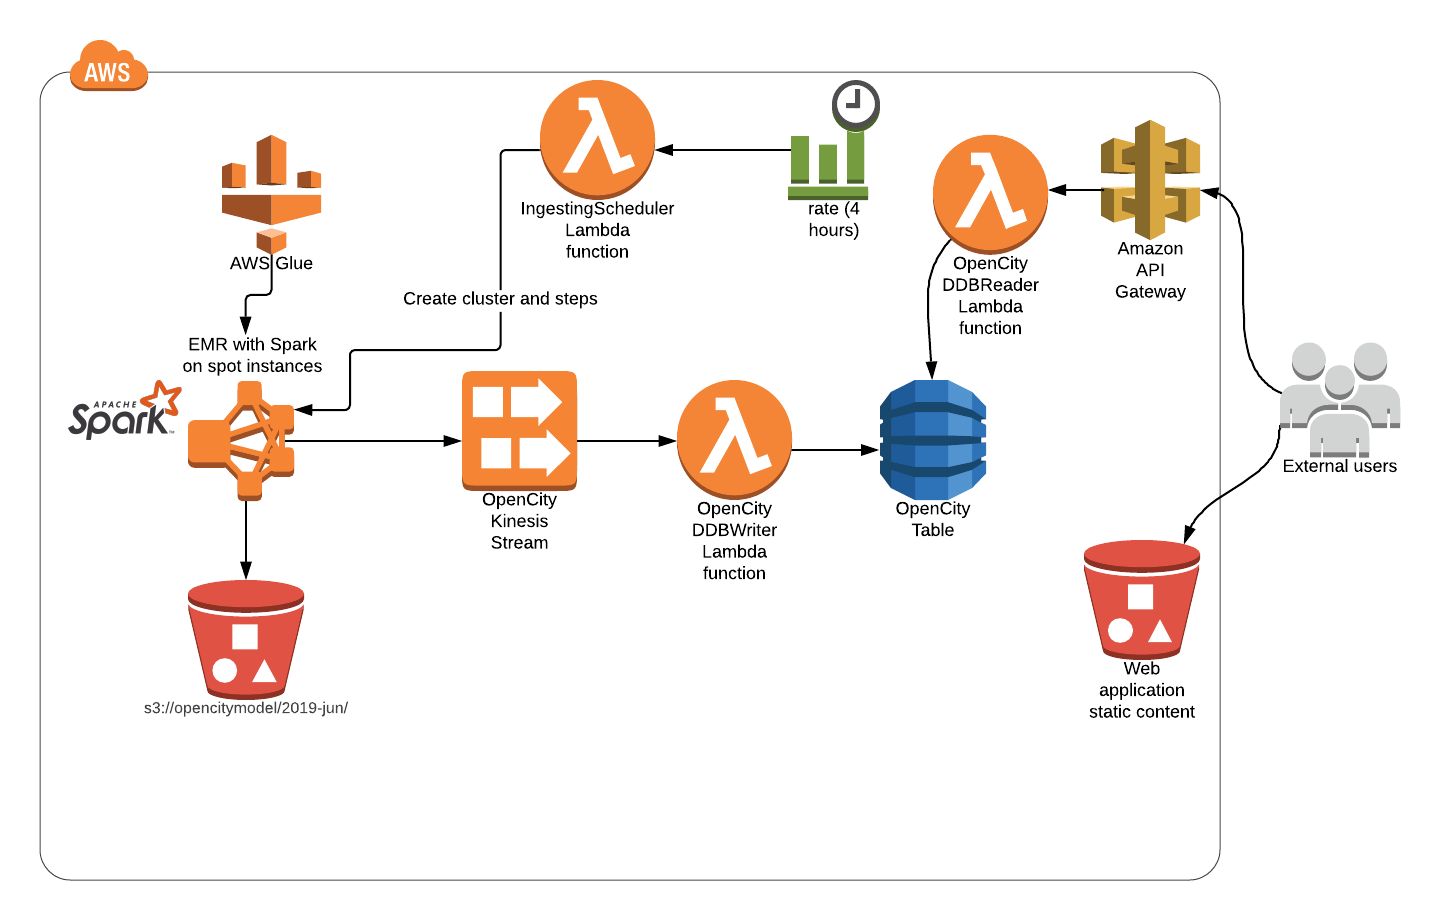
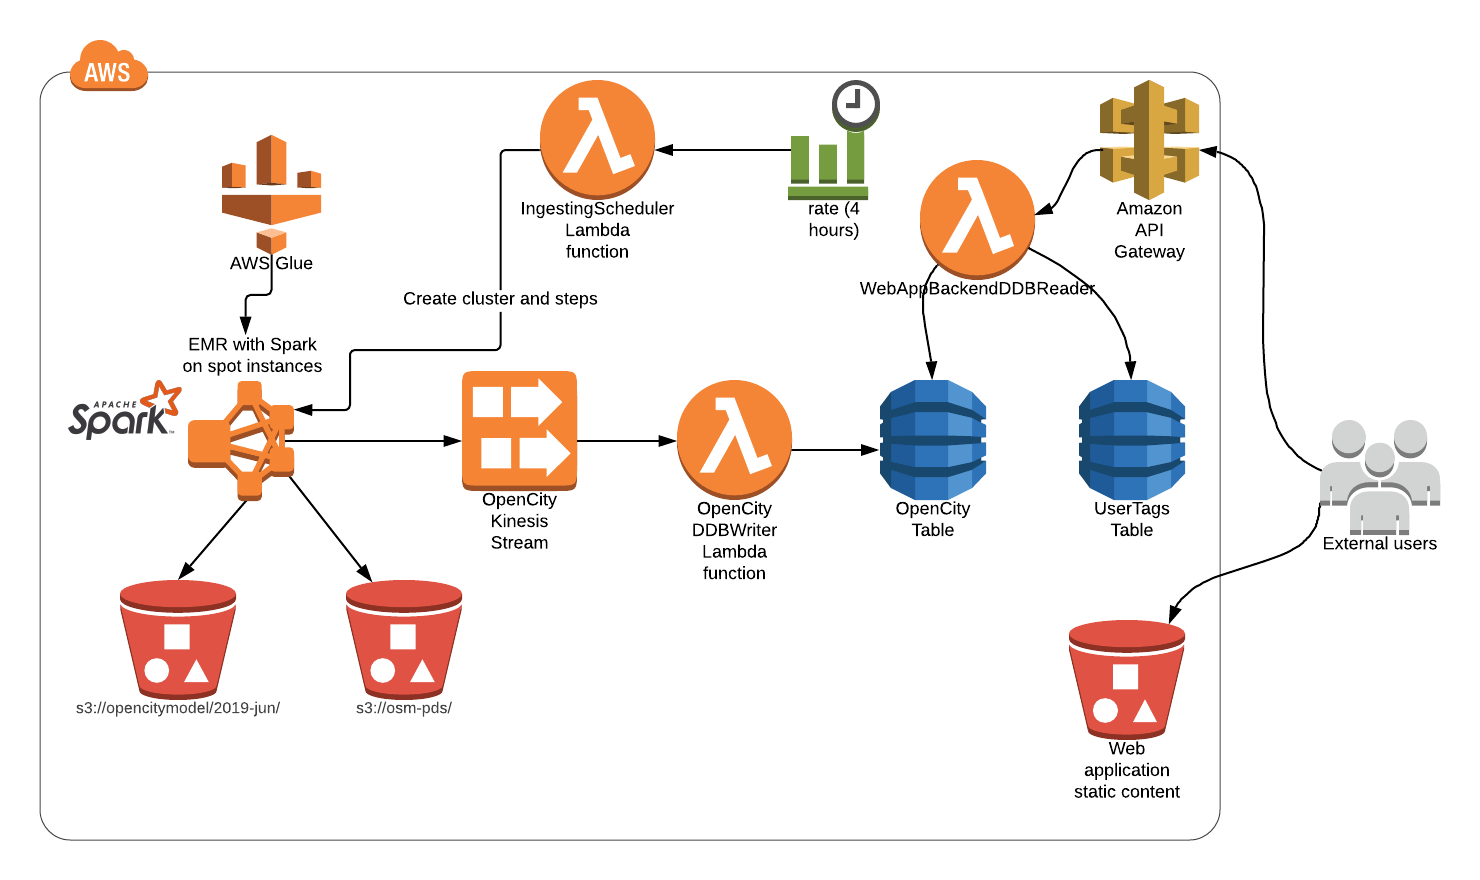
Latest fixes

Changed region(s): [[0.0312, 0.0307, 1.0, 0.9205], [0.0625, 0.6136, 0.3125, 0.8284], [0.0312, 0.9511, 0.8125, 0.9818]]

diff --git a/README.md b/README.md
@@ -1,6 +1,7 @@
 # OpenCity DynamoDB uploader
 
-The project uploads [Open City Model database](https://github.com/opencitymodel/opencitymodel) to DynamoDB with EMR, Kinesis and Lambda.
+The project uploads [Open City Model database](https://github.com/opencitymodel/opencitymodel) and [Open Street Maps](https://docs.opendata.aws/osm-pds/readme.html) to DynamoDB with EMR, Kinesis and Lambda.
+It also provides PoC web application to perform geospatial requests, view buildings and add tags on it.
 
 How it works:
 
@@ -91,4 +92,8 @@ unix_timestamp(timestamp) as timestamp, uid, user, version FROM opencitymodel.pl
 OSM
 ````
 
+# Web Application
 
+Web app provides simple UI with a map based on [Leaflet](https://leafletjs.com/):
+
+![](./poc_ui.png)
